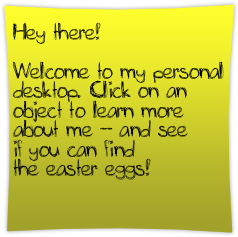
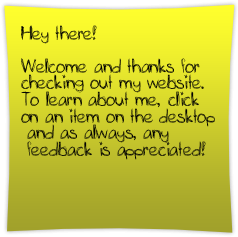
updated postit, start work on terminal

Changed region(s): [[0.0294, 0.2363, 0.9412, 0.7679], [0.0294, 0.0886, 0.4412, 0.2068]]

diff --git a/photo.html b/photo.html
@@ -26,7 +26,8 @@
   <div id="layover" class="main-content">
     <div id="exit"><a id="exit-button" href=""><img src="static/img/exit.png"></a></div>
     <div id="photo-main-text">
-    	<h3 id="photo-header">It's said that a picture is worth a thousand words. If you've checked out the other sections on this site, you're probably groaning from my bad jokes and whatnot by now so I'll stick to pictures:</h3>
+    	<h1>About Me</h1>
+      <p></p>
     </div>
   </div>
 </body>

diff --git a/static/css/terminal.css b/static/css/terminal.css
@@ -1,0 +1,5 @@
+.terminal {
+	color: #0f0;
+	padding-top: 10px;
+	padding-left: 5px;
+}

diff --git a/README.md b/README.md
@@ -1,2 +1,7 @@
 # mygithubpage
 Check it out at http://kevinguh.me!
+
+TODO:
+- bio
+- blog link
+- mobile optimization
